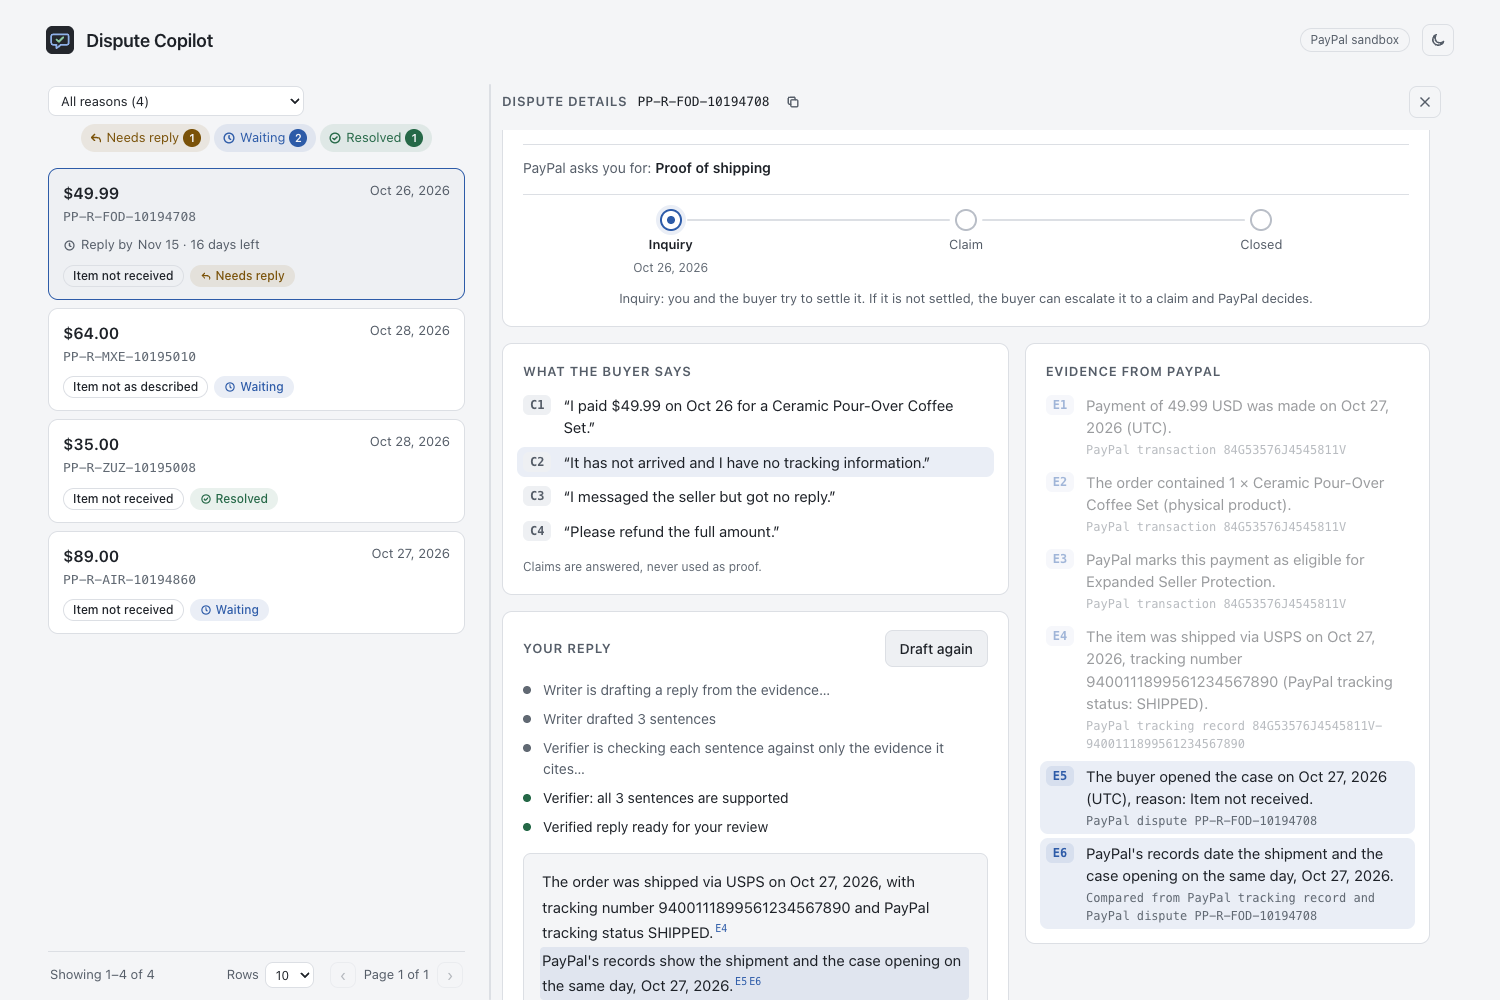
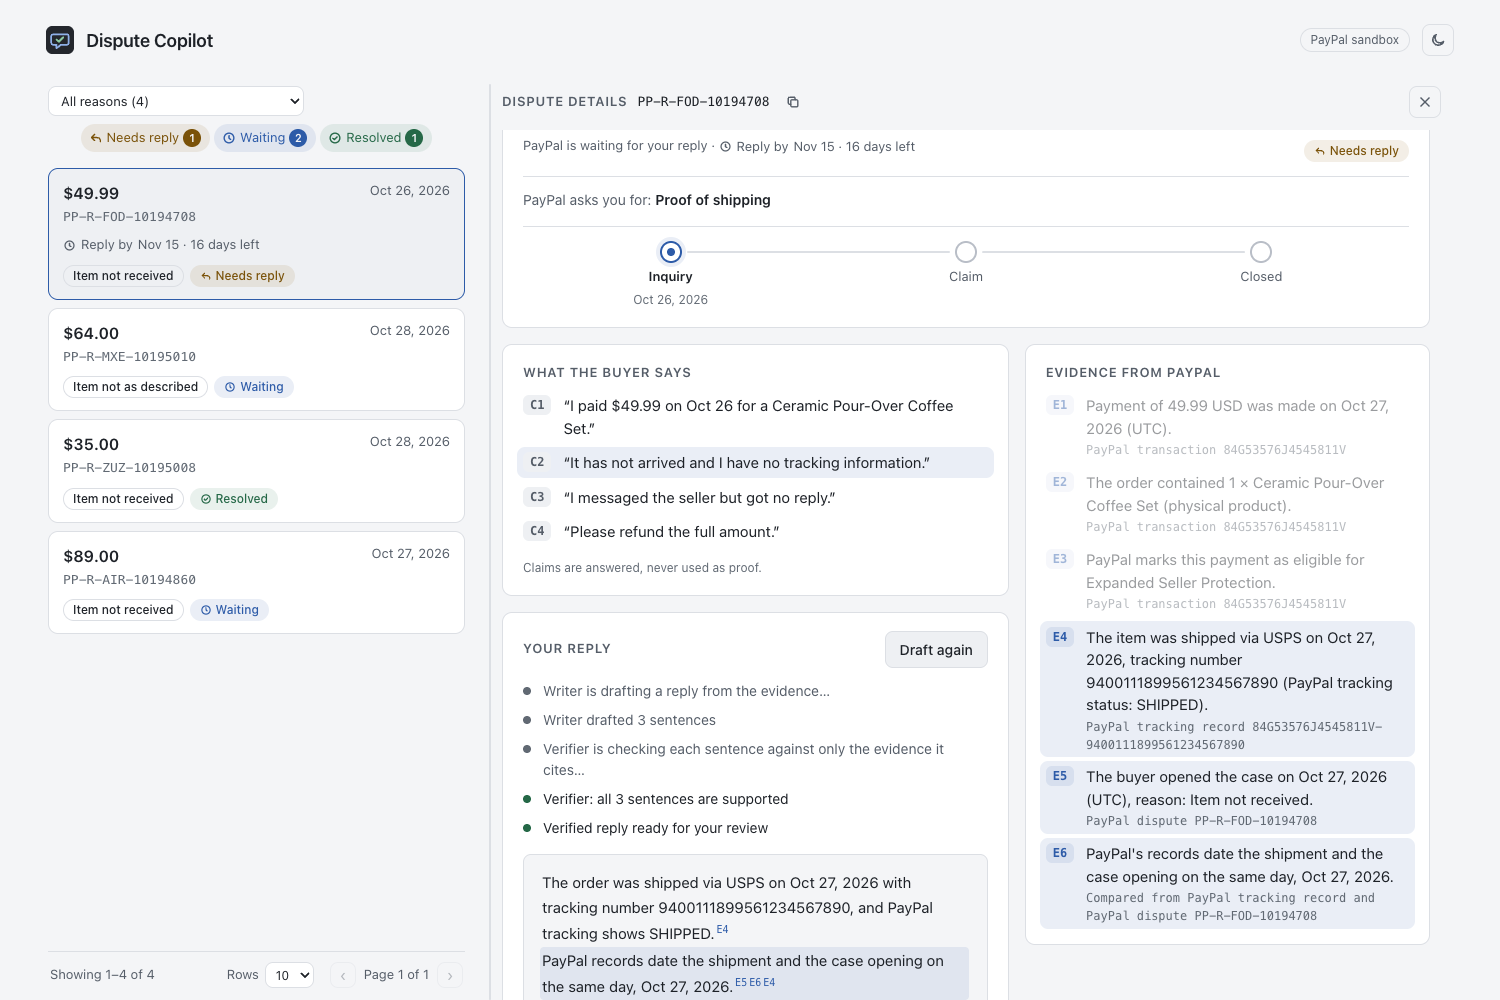
Stage timeline: per-step hover meaning instead of a fixed note
The sentence under the stepper repeated what the steps already show and
told the seller nothing to do. Each stage label now explains itself on
hover. Images retaken.

diff --git a/web/src/Timeline.tsx b/web/src/Timeline.tsx
@@ -4,13 +4,13 @@ import { statusOf } from './status'
 
 const ARBITRATION = ['PRE_ARBITRATION', 'ARBITRATION']
 
-// What the current stage means, in plain words.
-const NOW: Record<string, string> = {
-  INQUIRY:
-    'Inquiry: you and the buyer try to settle it. If it is not settled, the buyer can escalate it to a claim and PayPal decides.',
-  CLAIM: 'Claim: PayPal reviews the evidence from both sides and decides.',
-  CHARGEBACK: "Chargeback: the buyer's card issuer reviews the evidence and decides.",
-  ARBITRATION: 'Arbitration: the last stage, where the final decision is made.',
+// What each stage means, shown on hover.
+const MEANS: Record<string, string> = {
+  INQUIRY: 'You and the buyer try to settle it',
+  CLAIM: 'PayPal reviews both sides and decides',
+  CHARGEBACK: "The buyer's card issuer decides",
+  ARBITRATION: 'The final decision',
+  CLOSED: 'The case is over',
 }
 
 type Step = { key: string; label: string; date?: string }
@@ -34,7 +34,6 @@ export default function Timeline({ c }: { c: CaseDetail }) {
   const reached = Math.max(0, steps.findIndex((s) => s.key === stageKey))
   const last = steps.length - 1
   const current = closed ? last : reached
-  const note = closed ? null : NOW[steps[current].key]
 
   // A case closed at the inquiry never went to a claim: that step shows as skipped, not done.
   const stateOf = (i: number) => {
@@ -53,7 +52,7 @@ export default function Timeline({ c }: { c: CaseDetail }) {
               <span className="stage-dot" aria-hidden="true">
                 {state === 'done' && <TickIcon />}
               </span>
-              <span className="stage-label">
+              <span className="stage-label" data-tip={MEANS[s.key]}>
                 {s.label}
                 {state === 'skipped' && <span className="sr-only"> (skipped)</span>}
               </span>
@@ -62,7 +61,6 @@ export default function Timeline({ c }: { c: CaseDetail }) {
           )
         })}
       </ol>
-      {note && <p className="stage-note">{note}</p>}
     </div>
   )
 }

diff --git a/web/src/index.css b/web/src/index.css
@@ -210,7 +210,7 @@ button {
   font-weight: 600;
 }
 
-/* Stage timeline: Inquiry -> Claim -> Closed, with a plain note on what "now" means */
+/* Stage timeline: Inquiry -> Claim -> Closed; each label explains itself on hover */
 .stage-timeline {
   grid-column: 1 / -1;
   margin-top: 12px;
@@ -309,13 +309,6 @@ button {
 .stage-date {
   font-size: 12px;
   color: var(--faint);
-}
-
-.stage-note {
-  margin: 12px 0 0;
-  font-size: 13px;
-  color: var(--muted);
-  text-align: center;
 }
 
 .columns {

diff --git a/tests/e2e/test_ui.py b/tests/e2e/test_ui.py
@@ -162,12 +162,14 @@ def stage_states(pg: Page) -> list[tuple[str, str]]:
     ]
 
 
-def test_timeline_shows_the_current_stage_and_what_it_means(page: Page):
+def test_timeline_shows_the_current_stage_and_explains_each_on_hover(page: Page):
     page.goto("/#/case/PP-R-FOD-10194708")
     expect(page.locator(".stage")).to_have_count(3)
     assert stage_states(page) == [("Inquiry", "now"), ("Claim", "next"), ("Closed", "next")]
     expect(page.locator(".stage.now")).to_have_attribute("aria-current", "step")
-    expect(page.locator(".stage-note")).to_contain_text("the buyer can escalate it to a claim")
+    expect(page.locator(".stage-label").nth(1)).to_have_attribute(
+        "data-tip", "PayPal reviews both sides and decides"
+    )
 
 
 def test_timeline_marks_a_claim_skipped_when_the_case_closed_at_inquiry(page: Page):
@@ -183,7 +185,6 @@ def test_timeline_marks_a_claim_skipped_when_the_case_closed_at_inquiry(page: Pa
         ("Claim (skipped)", "skipped"),
         ("Closed", "done"),
     ]
-    expect(page.locator(".stage-note")).to_have_count(0)
 
 
 @pytest.mark.parametrize(
